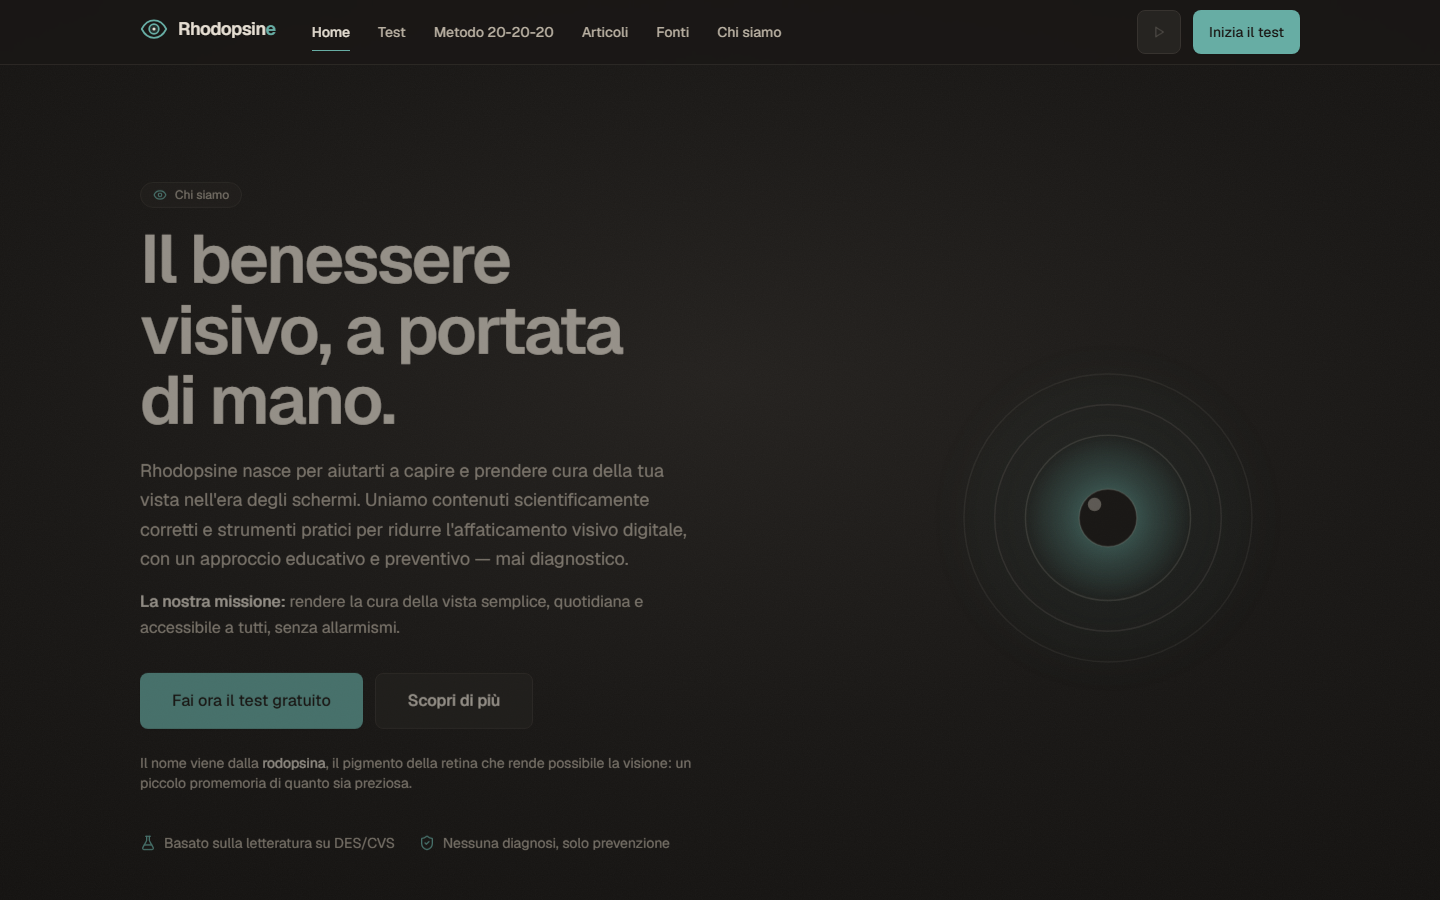
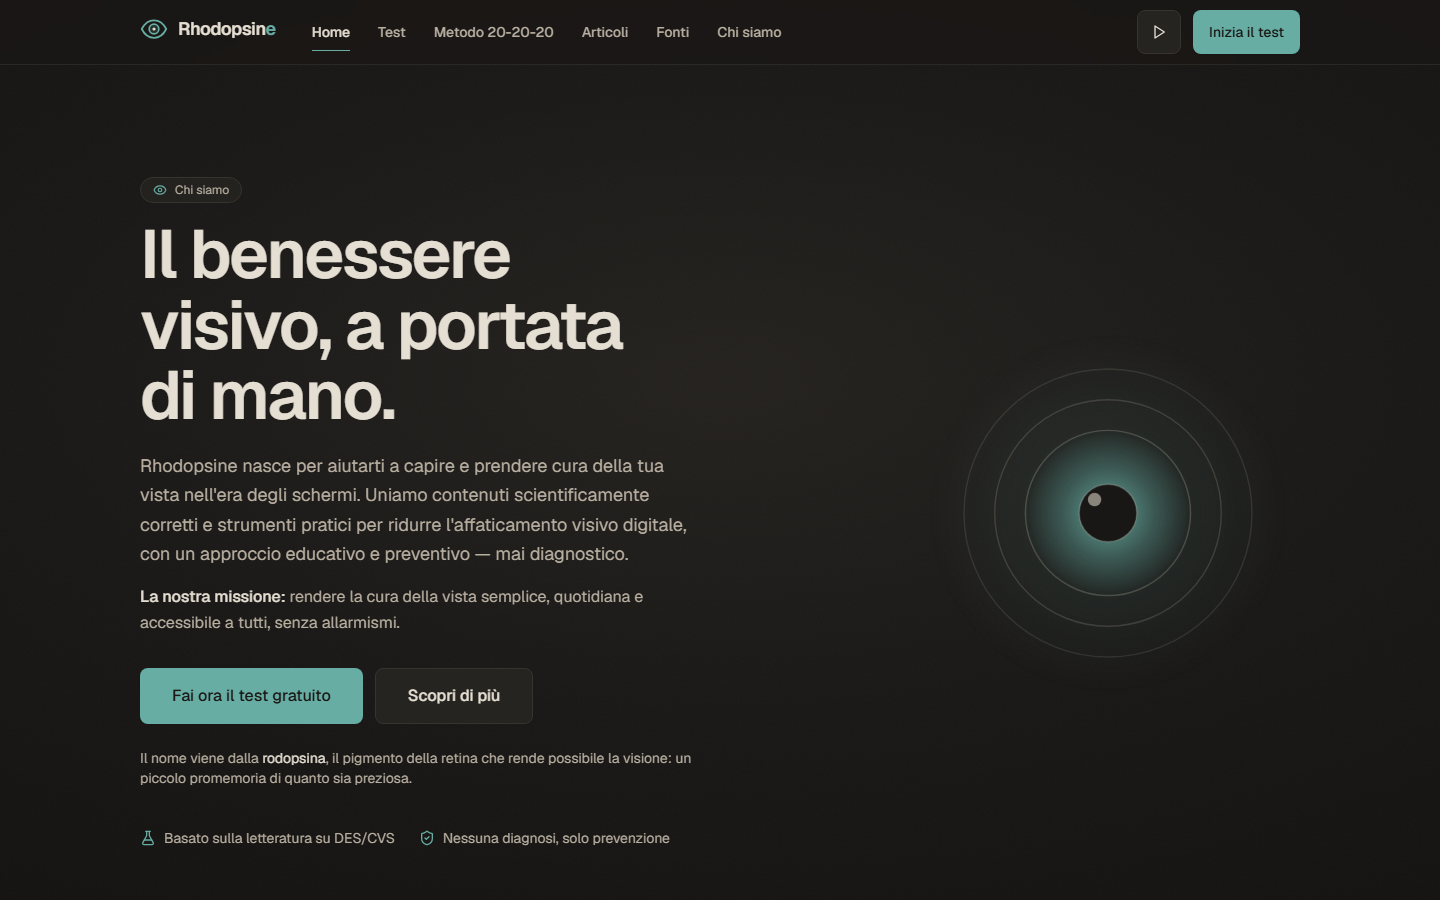
docs: screenshot del timer e immagini aggiornate

diff --git a/README.md b/README.md
@@ -9,9 +9,11 @@ da un oculista o un controllo da un ottico/optometrista.
 
 Online su [rhodopsine.com](https://rhodopsine.com).
 
-| Home | Questionario | Risultati |
-|---|---|---|
-| ![Home](docs/screenshots/home.png) | ![Questionario](docs/screenshots/test.png) | ![Risultati](docs/screenshots/risultati.png) |
+| Home | Questionario |
+|---|---|
+| ![Home](docs/screenshots/home.png) | ![Questionario](docs/screenshots/test.png) |
+| **Risultati** | **Timer 20-20-20** |
+| ![Risultati](docs/screenshots/risultati.png) | ![Timer 20-20-20](docs/screenshots/timer.png) |
 
 ## Stack
 
